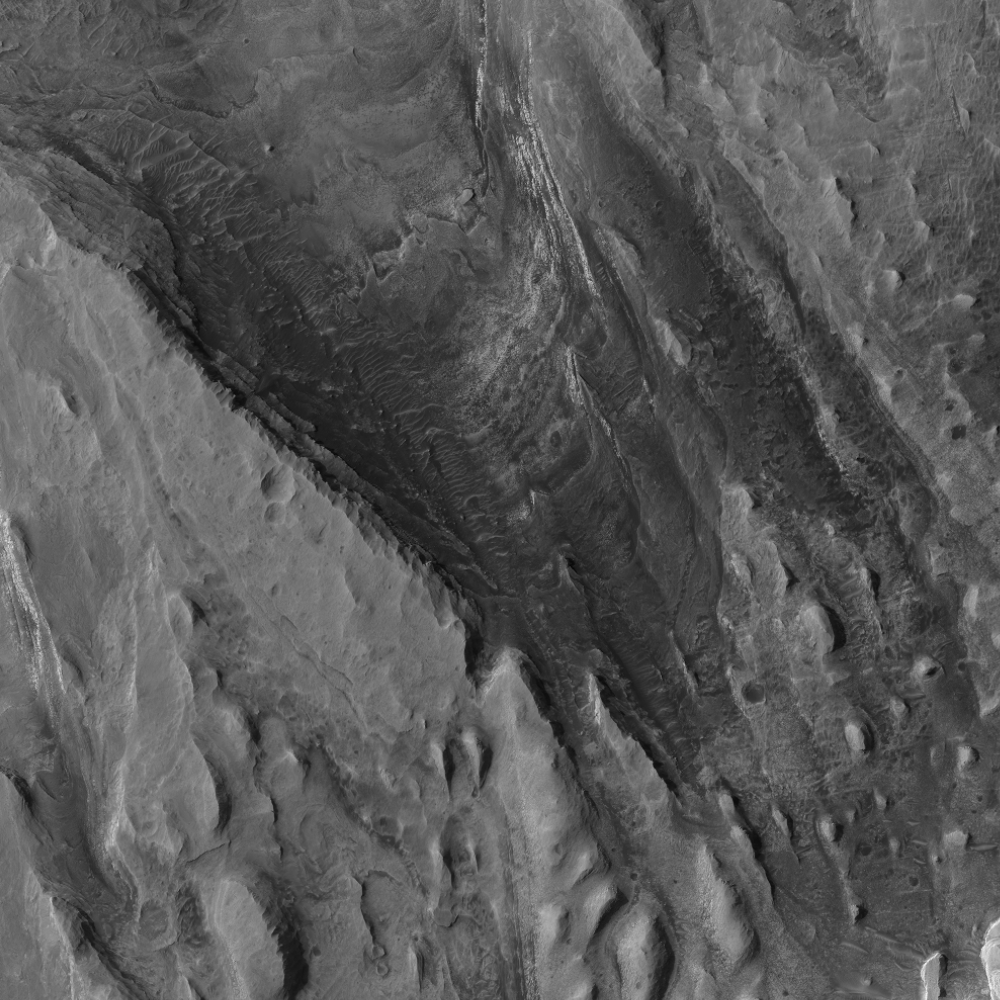
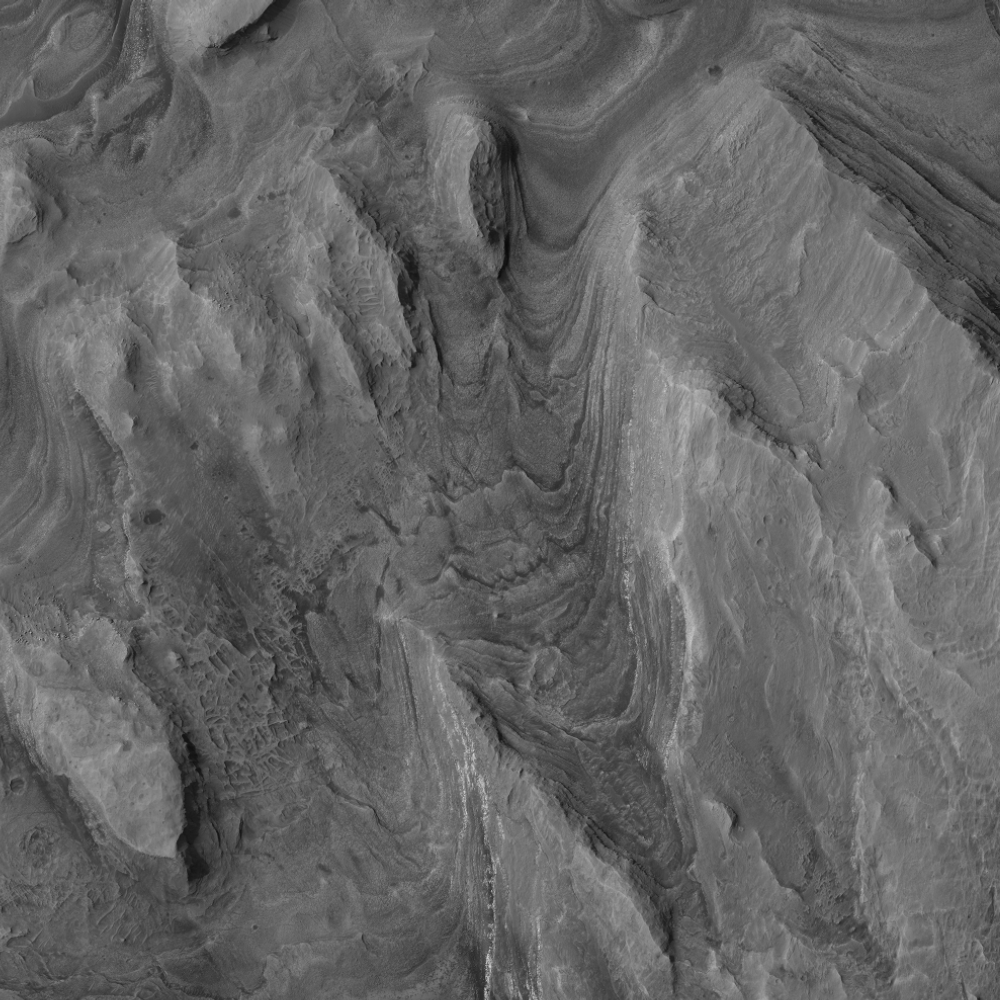
terrain: crop HiRISE around the example stops
The 2 km DTEEC_019698 window and matching ortho now contain every
example point in the contract and routing stop files. PRE-07 is still
open, so these ids are not locked outcrops.

diff --git a/pipeline/terrain/make_slope.py b/pipeline/terrain/make_slope.py
@@ -1,19 +1,23 @@
-"""MUST-01: crop HiRISE DTEEC_019698, average-resample to ~5 m, compute slope, write a preview.
+"""MUST-01: crop HiRISE DTEEC_019698 around the example stops, resample, write slope.
 
 Usage (from repo root):
-    .venv/Scripts/python pipeline/terrain/make_slope.py [--lat -4.83] [--lon 137.39] [--half-km 1.0]
+    python3 pipeline/terrain/make_slope.py [--min-half-km 1.0]
+
+The window is the bounding box of the example stops in
+docs/contracts/stops.json and data/processed/routing/stops.json, expanded
+to at least 2 km across. Those ids are examples. This does not lock
+outcrops (PRE-07) and does not invent official names.
 
 Outputs:
     data/raw/terrain/dtm_crop_1m.tif          (gitignored)
     data/processed/terrain/slope-preview.png  (class colours)
     data/processed/terrain/slope_stats.json
 
-The crop centre is a placeholder near Curiosity's Sol 5070 position until the stops are locked (PRE-07).
-Slope limits are lunar stand-ins; the 1 m DTM under-reads rover tilt (see AGENTS.md).
+Slope limits are lunar stand-ins. See data/processed/terrain/tilt-check.json.
 """
 import argparse
 import json
-import math
+import sys
 from pathlib import Path
 
 import numpy as np
@@ -21,19 +25,15 @@ import rasterio
 from rasterio.windows import Window
 from skimage.io import imsave
 
+sys.path.insert(0, str(Path(__file__).resolve().parent))
+from crop_window import LON0, MARS_R_M, crop_xy, load_example_stops, lonlat_to_xy, xy_to_lonlat  # noqa: E402
+
 DTM_URL = (
     "https://hirise-pds.lpl.arizona.edu/PDS/DTM/ESP/ORB_019600_019699/"
     "ESP_019698_1750_ESP_019988_1750/DTEEC_019698_1750_019988_1750_U01.IMG"
 )
-MARS_R_M = 3396190.0  # radius used by the DTM label
-LON0 = 137.38  # central meridian of the DTM projection
 CELL_M = 5  # target cell size in metres
 ROOT = Path(__file__).resolve().parents[2]
-
-
-def lonlat_to_xy(lon, lat):
-    k = MARS_R_M * math.pi / 180.0
-    return (lon - LON0) * k, lat * k
 
 
 def block_mean(a, f):
@@ -66,9 +66,7 @@ def classify(s):
 
 def main():
     ap = argparse.ArgumentParser()
-    ap.add_argument("--lat", type=float, default=-4.83)
-    ap.add_argument("--lon", type=float, default=137.39)
-    ap.add_argument("--half-km", type=float, default=1.0)
+    ap.add_argument("--min-half-km", type=float, default=1.0)
     a = ap.parse_args()
 
     raw = ROOT / "data/raw/terrain"
@@ -76,12 +74,31 @@ def main():
     raw.mkdir(parents=True, exist_ok=True)
     out.mkdir(parents=True, exist_ok=True)
 
-    cx, cy = lonlat_to_xy(a.lon, a.lat)
-    half = a.half_km * 1000
+    stops = load_example_stops(ROOT)
+    cx, cy, half = crop_xy(stops, min_half_m=a.min_half_km * 1000.0)
+    centre_lon, centre_lat = xy_to_lonlat(cx, cy)
+    covered = []
     with rasterio.open("/vsicurl/" + DTM_URL) as ds:
         res = ds.res[0]
-        r0, c0 = ds.index(cx - half, cy + half)
-        r1, c1 = ds.index(cx + half, cy - half)
+        west, north = cx - half, cy + half
+        east, south = cx + half, cy - half
+        r0, c0 = ds.index(west, north)
+        r1, c1 = ds.index(east, south)
+        if r0 < 0 or c0 < 0 or r1 > ds.height or c1 > ds.width or r1 <= r0 or c1 <= c0:
+            raise SystemExit(f"crop window falls outside the DTM ({r0},{c0})-({r1},{c1})")
+        for stop in stops:
+            row, col = ds.index(stop["x"], stop["y"])
+            inside = r0 <= row < r1 and c0 <= col < c1
+            covered.append({
+                "id": stop["id"],
+                "lon": round(stop["lon"], 7),
+                "lat": round(stop["lat"], 7),
+                "source": stop["source"],
+                "inside_crop": bool(inside),
+            })
+        missed = [item["id"] for item in covered if not item["inside_crop"]]
+        if missed:
+            raise SystemExit("example stops outside the crop: " + ", ".join(missed))
         win = Window(c0, r0, c1 - c0, r1 - r0)
         z = ds.read(1, window=win).astype("float32")
         nodata = ds.nodata
@@ -110,19 +127,21 @@ def main():
 
     valid = np.isfinite(s)
     stats = {
-        "status": "first-pass preview, not validated",
-        "crop_centre_lat_lon": [a.lat, a.lon],
-        "half_size_km": a.half_km,
+        "status": "example-stop crop, not a locked route (PRE-07 still open)",
+        "dtm_product_id": "DTEEC_019698_1750_019988_1750_U01",
+        "crop_centre_lat_lon": [round(centre_lat, 6), round(centre_lon, 6)],
+        "half_size_km": round(half / 1000.0, 3),
         "native_res_m": res,
         "cell_size_m": cell,
         "shape_rows_cols": list(s.shape),
         "mars_radius_m": MARS_R_M,
+        "example_stops": covered,
         "valid_fraction": float(valid.mean()),
         "slope_median_deg": float(np.nanmedian(s)) if valid.any() else None,
         "share_gt_15_deg": float((s[valid] > 15).mean()) if valid.any() else None,
         "share_gt_20_deg": float((s[valid] > 20).mean()) if valid.any() else None,
         "classes": "0 <=10, 1 10-15, 2 15-20, 3 >20 (blocked), 4 no data",
-        "note": "Lunar slope limits are stand-ins; the 1 m DTM under-reads rover tilt.",
+        "note": "Window covers example stop points already in the repo. Ids are not official outcrop names. Lunar slope limits are stand-ins. MUST-03 found no systematic DTM under-read at ~5 m over 176 waypoints, with weak correlation; keep a safety margin.",
     }
     (out / "slope_stats.json").write_text(json.dumps(stats, indent=2) + "\n")
     print(json.dumps(stats, indent=2))

diff --git a/pipeline/terrain/crop_window.py b/pipeline/terrain/crop_window.py
@@ -1,0 +1,85 @@
+"""Crop window that covers the example stops already in the repo.
+
+Reads point features from docs/contracts/stops.json and, when that file
+exists, data/processed/routing/stops.json. Those coordinates are examples.
+PRE-07 has not locked official outcrop names, and this module does not
+invent any.
+
+The HiRISE DTM DTEEC_019698 is equirectangular with sphere radius
+3,396,190 m and central meridian 137.38° (standard parallel 0). That is
+the same projection as the PDS label.
+"""
+import json
+import math
+from pathlib import Path
+
+MARS_R_M = 3396190.0
+LON0 = 137.38
+# Footprint recorded from the cumulative DTM index on 11 November 2026.
+DTM_LON_WEST = 137.31
+DTM_LON_EAST = 137.44
+DTM_LAT_SOUTH = -5.04
+DTM_LAT_NORTH = -4.73
+STOP_FILES = (
+    "docs/contracts/stops.json",
+    "data/processed/routing/stops.json",
+)
+
+
+def lonlat_to_xy(lon, lat):
+    k = MARS_R_M * math.pi / 180.0
+    return (lon - LON0) * k, lat * k
+
+
+def xy_to_lonlat(x, y):
+    k = MARS_R_M * math.pi / 180.0
+    return x / k + LON0, y / k
+
+
+def load_example_stops(root):
+    """Return example point stops. Same id may appear twice if the files differ."""
+    root = Path(root)
+    stops = []
+    for rel in STOP_FILES:
+        path = root / rel
+        if not path.is_file():
+            continue
+        data = json.loads(path.read_text())
+        for feat in data.get("features", []):
+            geom = feat.get("geometry") or {}
+            if geom.get("type") != "Point":
+                continue
+            coords = geom.get("coordinates") or []
+            if len(coords) < 2:
+                continue
+            lon, lat = float(coords[0]), float(coords[1])
+            sid = str((feat.get("properties") or {}).get("id") or "unknown")
+            stops.append({"id": sid, "lon": lon, "lat": lat, "source": rel})
+    if not stops:
+        raise SystemExit("no example stops found in " + ", ".join(STOP_FILES))
+    outside = [
+        s for s in stops
+        if not (DTM_LON_WEST <= s["lon"] <= DTM_LON_EAST and DTM_LAT_SOUTH <= s["lat"] <= DTM_LAT_NORTH)
+    ]
+    if outside:
+        ids = ", ".join(f"{s['id']} ({s['lon']}, {s['lat']}) from {s['source']}" for s in outside)
+        raise SystemExit("example stop is outside the documented DTEEC_019698 footprint: " + ids)
+    return stops
+
+
+def crop_xy(stops, min_half_m=1000.0, edge_margin_m=200.0):
+    """Centre on the stop bounding box. Half-size is at least 1 km, and larger if needed."""
+    xs = []
+    ys = []
+    for stop in stops:
+        x, y = lonlat_to_xy(stop["lon"], stop["lat"])
+        stop["x"] = x
+        stop["y"] = y
+        xs.append(x)
+        ys.append(y)
+    cx = (min(xs) + max(xs)) / 2.0
+    cy = (min(ys) + max(ys)) / 2.0
+    half = float(min_half_m)
+    for x, y in zip(xs, ys):
+        half = max(half, abs(x - cx) + edge_margin_m, abs(y - cy) + edge_margin_m)
+    return cx, cy, half

diff --git a/pipeline/terrain/crop_ortho.py b/pipeline/terrain/crop_ortho.py
@@ -1,6 +1,7 @@
 """MUST-01: crop the 25 cm HiRISE orthoimage to the same footprint as the DTM crop.
 
 Run make_slope.py first (it writes data/raw/terrain/dtm_crop_1m.tif).
+That crop is the example-stop window, not a locked outcrop map.
 
 Outputs:
     data/raw/terrain/ortho_crop.tif            (gitignored, ~1 m / pixel preview of the 25 cm image)

diff --git a/docs/coordination/AGENT_LOG.md b/docs/coordination/AGENT_LOG.md
@@ -339,3 +339,14 @@ Optional Git reminder: `git config commit.template .gitmessage` (see [docs/GITHU
 - Why: Posted the Backend 1 ship note before the recrop. Will cover every example stop already in docs/contracts/stops.json and data/processed/routing/stops.json with a HiRISE DTM and ortho crop on backend/terrain, then the cost grid on backend/costmap. No official outcrop names. No merge to main.
 - Commit: this commit
 - Next step: Run the DTEEC_019698 crop and slope preview on backend/terrain, then the cost map on backend/costmap.
+
+### 2026-11-14 13:07 Europe/Istanbul — MUST-01 (example-stop HiRISE crop)
+
+- Human: Cagan
+- Agent tool + model: Grok (Cursor)
+- Role: backend-1
+- Task id: MUST-01
+- Files changed: pipeline/terrain/crop_window.py, make_slope.py, crop_ortho.py, README.md, data/processed/terrain/slope-preview.png, slope_stats.json, ortho-preview.png, README.md, docs/coordination/BOARD.md, docs/coordination/AGENT_LOG.md
+- Why: Recropped DTEEC_019698 and the matching RED ortho so every example stop already in docs/contracts/stops.json and data/processed/routing/stops.json is inside a 2 km window (centre about 4.800°S, 137.390°E). Averaged 1 m to ~5.06 m. Median slope 11.6°; 36% of cells above 15°; 24% above 20°; no no-data in this crop. Raw GeoTIFFs stay gitignored. Ids are the example ids already in those files. PRE-07 is still open. Cost grid is the next commit on backend/costmap, so cost-map.json on this branch is still the earlier placeholder-centre grid.
+- Commit: this commit
+- Next step: Build the cost map and height preview for this same window on backend/costmap.

diff --git a/docs/coordination/BOARD.md b/docs/coordination/BOARD.md
@@ -45,7 +45,7 @@ Seeded from [ROADMAP.md](../../ROADMAP.md). Humans and agent tools stay `TBD` un
 
 | ID | Task | Owner role | Human | Agent | Status | Due | Notes |
 |---|---|---|---|---|---|---|---|
-| MUST-01 | Download and crop DTM + ortho; first slope preview | B1 | Cagan | Grok (Cursor) | doing | hour 6 | `pipeline/terrain/`, `data/processed/terrain/`. Recropping DTEEC_019698 on `backend/terrain` so example stops already in the repo sit inside the window. Not a PRE-07 lock. |
+| MUST-01 | Download and crop DTM + ortho; first slope preview | B1 | Cagan | Grok (Cursor) | review | hour 6 | `backend/terrain`: DTEEC_019698 crop centred ~4.800°S, 137.390°E, 2 km, ~5.06 m cells. Covers every example point in `docs/contracts/stops.json` and `data/processed/routing/stops.json`. Median slope 11.6°. Not a PRE-07 lock. |
 | MUST-02 | Cost / hazard map + `cost-map.json` + height preview for 3D | B1 | Cagan | Claude Code | review | hour 10 | Contract: `docs/contracts/cost-map.json` |
 | MUST-03 | Tilt check vs Curiosity waypoints; freeze MUST raster | B1 | Cagan | Claude Code | doing | hour 16 | Tilt check done (first pass): no systematic under-read over 176 waypoints, weak correlation; see `data/processed/terrain/tilt-check.json`. Raster freeze waits for PRE-07. |
 | MUST-04 | Write locked `stops.json` | B2 | Doruk | Grok (Cursor) | doing | hour 2 | Example scaffold on branch `backend-2/routing-must-scaffold` (cited Sol 4527/4534 + contract mudstones). Still `is_example`; clear only after PRE-07 lock. |

diff --git a/pipeline/terrain/README.md b/pipeline/terrain/README.md
@@ -1,6 +1,14 @@
 # pipeline/terrain/
 
-Owned by **Backend 1**. GDAL / Python DEM-to-cost-map steps will live here **after 14 November 2026**. No application code yet. See [docs/roles/backend-1-terrain.md](../../docs/roles/backend-1-terrain.md).
+Owned by **Backend 1**. Long-lived branch: `backend/terrain`. See [docs/roles/backend-1-terrain.md](../../docs/roles/backend-1-terrain.md).
 
+| Script | What it writes |
+|---|---|
+| `crop_window.py` | Window around the example stops already in the repo |
+| `make_slope.py` | Gitignored 1 m DTM crop, `slope-preview.png`, `slope_stats.json` |
+| `crop_ortho.py` | Gitignored ortho crop and `ortho-preview.png` (same footprint) |
+| `tilt_check.py` | `tilt-check.json` (MUST-03, earlier pass) |
 
-Cost-map generation moved to `pipeline/costmap/` (branch `backend/costmap`).
+`make_slope.py` reads `docs/contracts/stops.json` and `data/processed/routing/stops.json` and refuses to finish if any of those points falls outside the crop. The ids in those files are examples. PRE-07 has not locked official outcrop names, and these scripts do not invent any.
+
+Cost / hazard grid and the height preview are `pipeline/costmap/` on branch `backend/costmap`. Raw GeoTIFFs stay in `data/raw/` and are not committed. Slope class colours are lunar stand-ins (green ≤ 10°, amber 10–15°, red 15–20°, black blocked > 20°, grey no-data).

diff --git a/data/processed/terrain/README.md b/data/processed/terrain/README.md
@@ -1,3 +1,6 @@
 # data/processed/terrain/
 
-Owned by **Backend 1**. Small derived cost-map JSON and previews will be written here after 14 November 2026. Do not commit raw DTMs.
+Owned by **Backend 1**. Small derived previews only. Do not commit raw DTMs.
+
+On `backend/terrain`, `slope-preview.png`, `slope_stats.json`, and `ortho-preview.png` are the HiRISE crop that covers the example stops already in the repo. `cost-map.json` and `height-preview.png` on this branch stay the earlier placeholder-centre grid until `backend/costmap` replaces them. PRE-07 is still open.
+
